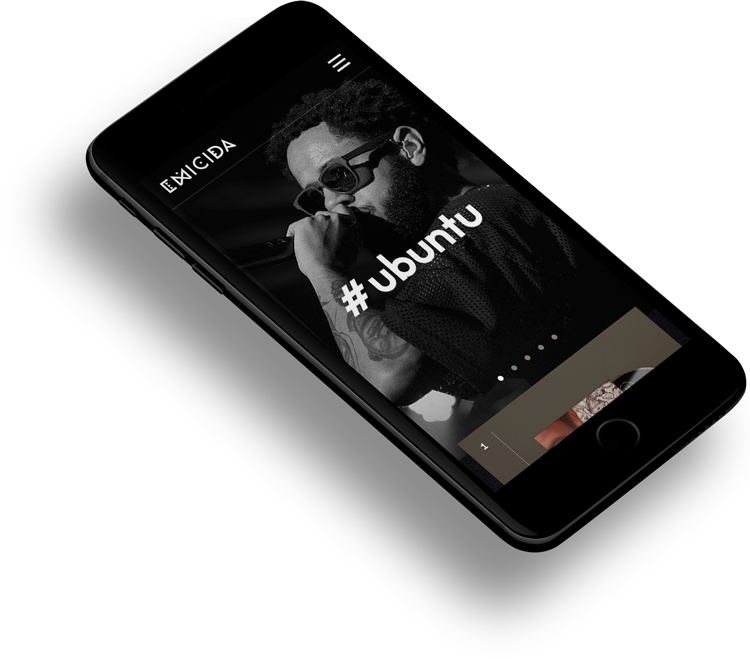
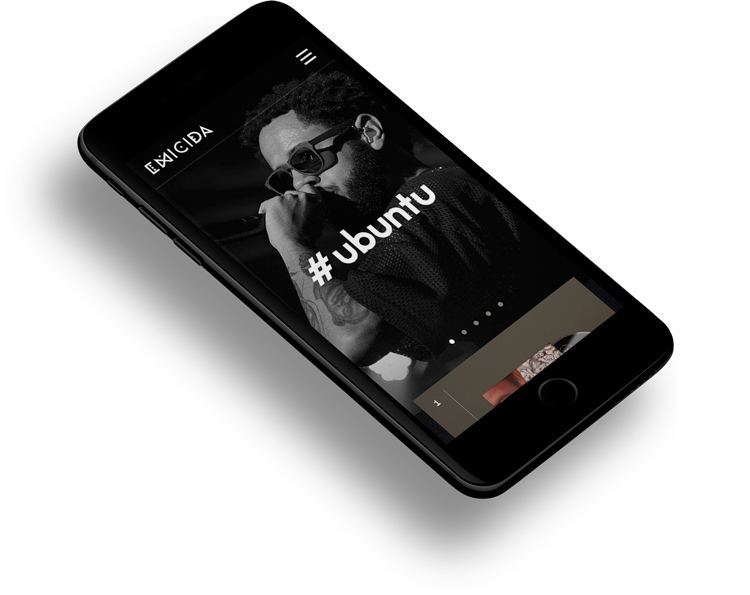
mobile mockups

Changed region(s): [[0.092, 0.0, 1.0, 0.9378], [0.1533, 0.1513, 0.184, 0.1815], [0.1227, 0.1815, 0.1533, 0.2118]]

diff --git a/src/sections/caixa-nas-ruas/index.js b/src/sections/caixa-nas-ruas/index.js
@@ -64,11 +64,13 @@ function Section() {
       </div>
 
       {/* Mockup */}
-      <div className="container container--full">
-        <picture>
-          <source srcSet={mockupMin} media="(max-width: 480px)" />
-          <img src={mockup} alt="" />
-        </picture>
+      <div className="mockup-image">
+        <div className="container container--full">
+          <picture>
+            <source srcSet={mockupMin} media="(max-width: 480px)" />
+            <img className="work-mockup__image" src={mockup} alt="" />
+          </picture>
+        </div>
       </div>
 
       {/* Objective */}

diff --git a/src/sections/david-yurman/index.js b/src/sections/david-yurman/index.js
@@ -53,11 +53,13 @@ function Section() {
       </div>
 
       {/* Mockup */}
-      <div className="container">
-        <picture>
-          <source srcSet={mockupMin} media="(max-width: 480px)" />
-          <img src={mockup} alt="Mockup" />
-        </picture>
+      <div className="work-mockup">
+        <div className="container">
+          <picture>
+            <source srcSet={mockupMin} media="(max-width: 480px)" />
+            <img className="work-mockup__image" src={mockup} alt="Mockup" />
+          </picture>
+        </div>
       </div>
 
       {/* Objective */}

diff --git a/src/sections/mova-mais/index.js b/src/sections/mova-mais/index.js
@@ -61,8 +61,10 @@ function Section() {
       </div>
 
       {/* Mockup */}
-      <div className="container container--full">
-        <img src={mockup} alt="" />
+      <div className="work-mockup">
+        <div className="container container--full">
+          <img className="work-mockup__image" src={mockup} alt="" />
+        </div>
       </div>
 
       {/* Objective */}

diff --git a/src/sections/bb-private/index.js b/src/sections/bb-private/index.js
@@ -58,7 +58,7 @@ function Section() {
         <div className="container container--full">
           <picture>
             <source srcSet={mockupMin} media="(max-width: 480px)" />
-            <img src={mockup} alt="Mockup" />
+            <img className="work-mockup__image" src={mockup} alt="Mockup" />
           </picture>
         </div>
       </div>

diff --git a/src/sections/emicida/index.js b/src/sections/emicida/index.js
@@ -59,7 +59,7 @@ function Section() {
         <div className="container container--full">
           <picture>
             <source srcSet={mockupMin} media="(max-width: 480px)" />
-            <img src={mockup} alt="Mockup" />
+            <img className="work-mockup__image" src={mockup} alt="Mockup" />
           </picture>
         </div>
       </div>

diff --git a/src/sections/escinter/index.js b/src/sections/escinter/index.js
@@ -51,8 +51,10 @@ function Section() {
       </div>
 
       {/* Mockup */}
-      <div className="container">
-        <img src={mockup} alt="" />
+      <div className="work-mockup">
+        <div className="container">
+          <img className="work-mockup__image" src={mockup} alt="" />
+        </div>
       </div>
 
       {/* Objective */}

diff --git a/src/styles/style.css b/src/styles/style.css
@@ -23,6 +23,7 @@
 @import '../components/work-head';
 @import '../components/work-intro';
 @import '../components/work-objective';
+@import '../components/work-mockup';
 @import '../components/work-flow';
 @import '../components/work-steps';
 @import '../components/work-screen';

diff --git a/src/sections/emicida/index.css b/src/sections/emicida/index.css
@@ -29,12 +29,6 @@
     max-width: 660px;
     margin: auto;
   }
-  .work-mockup {
-    position: relative;
-  }
-  .work-mockup img {
-    transform: translateX(-4.5%);
-  }
   .mcd-patter {
     background-attachment: fixed;
     height: 180px;

diff --git a/src/components/work-mockup/index.css b/src/components/work-mockup/index.css
@@ -1,0 +1,12 @@
+.work-mockup {
+  overflow: hidden;
+  position: relative;
+}
+@media (--viewport-min) {
+  .work-mockup__image {
+    position: relative;
+    left: 50%;
+    transform: translateX(-50%);
+    min-width: 140%;
+  }
+}

diff --git a/src/sections/caixa-nas-ruas/index.css b/src/sections/caixa-nas-ruas/index.css
@@ -21,6 +21,9 @@
   .work-intro .container {
     max-width: 860px;
   }
+  .work-mockup__image {
+    min-width: 100%;
+  }
   .work-step__title {
     &:before {
       background-color: var(--cnr-colorfulDetails);
